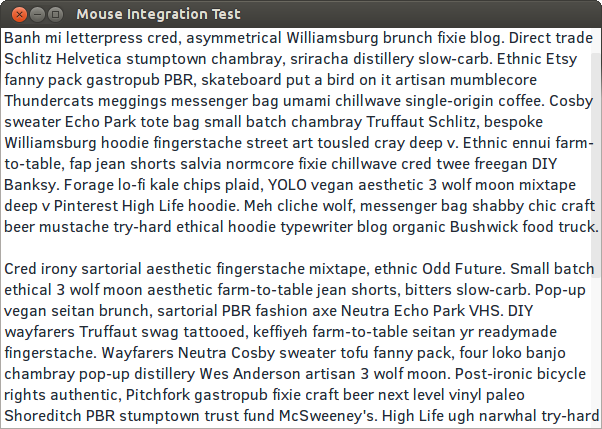
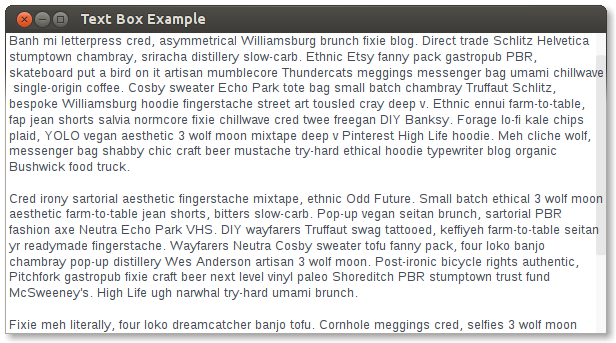
screenshot of text_box example

diff --git a/src/view/example/textbox/main.go b/src/view/example/textbox/main.go
@@ -18,8 +18,7 @@ import (
 func main() {
 	var waitOnExit chan bool
 	fmt.Println(color.HexRGBA(0xff77ff00))
-	win := view.NewWindow("Mouse Integration Test", 0, 0, 800, 600)
-	win.SetSize(600, 400)
+	win := view.NewWindow("Text Box Example", 0, 0, 600, 300)
 	l := layout.NewAbsolute(win)
 	tb := widget.NewTextBox(win, msg)
 	style := tb.Style()
@@ -78,7 +77,7 @@ func main() {
 	tb.AddKeyPressHandler(func(kb event.Keyboard){
 //		fmt.Println("<-->", kb.Char)
 	})
-	l.Add(tb, view.Bounds{0,0,view.Size{600,400}}) 
+	l.Add(tb, view.Bounds{0,0,view.Size{600,300}}) 
 	win.SetLayout(l)
 	win.Start()
 	<-waitOnExit
